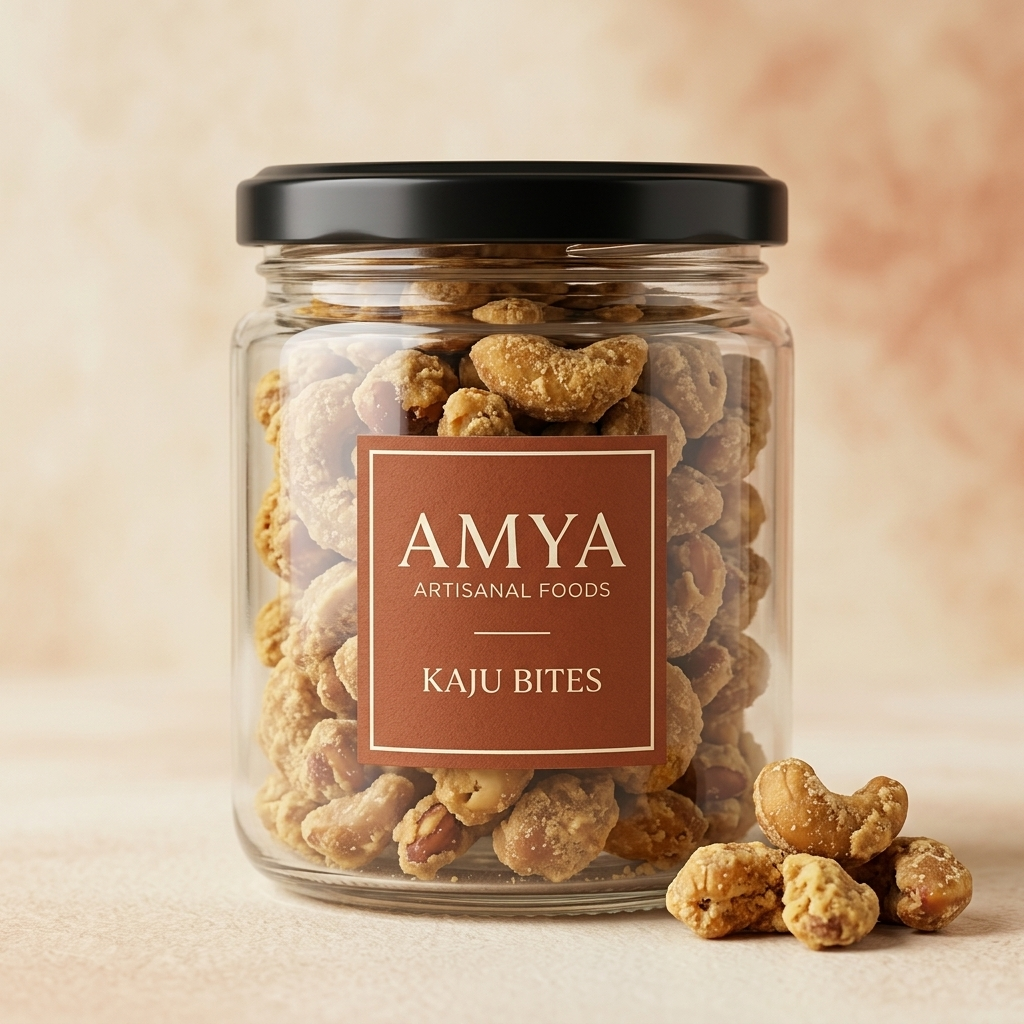
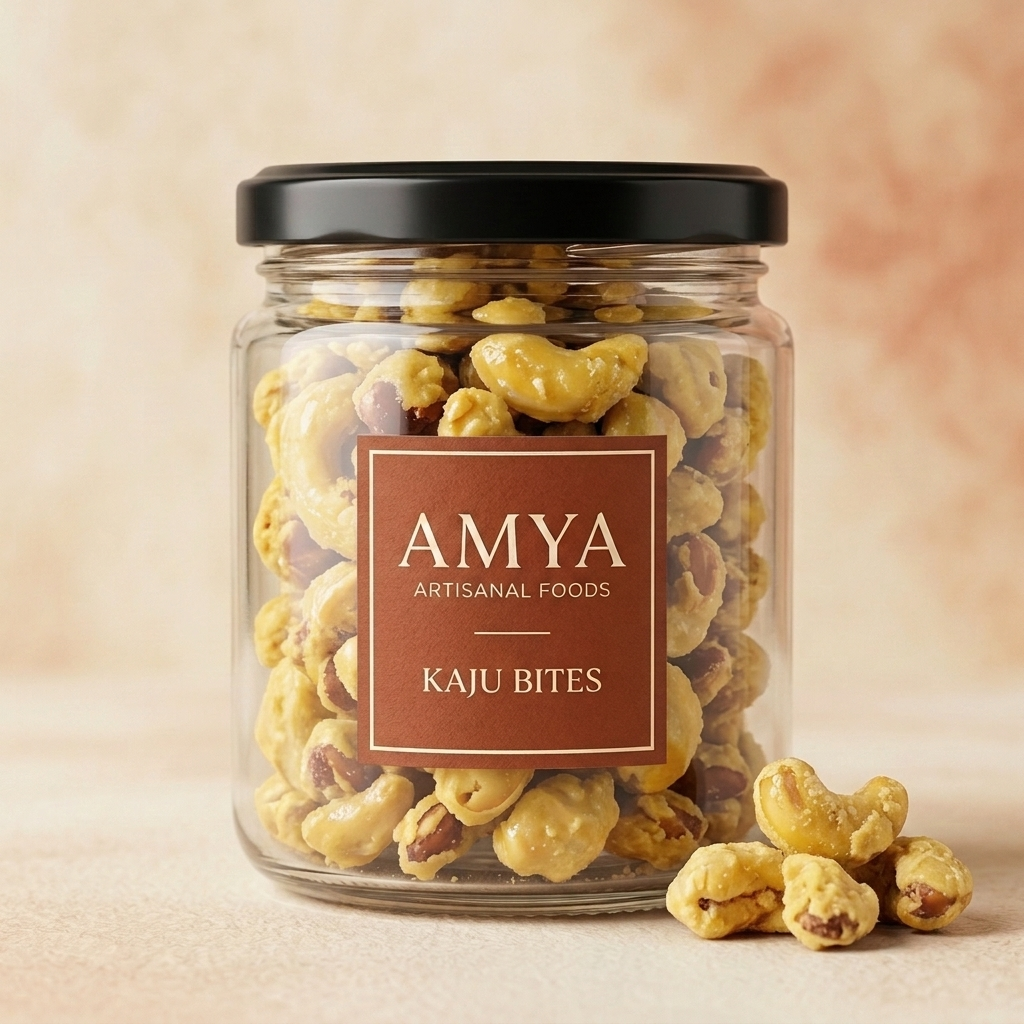
## Kaju Bites Product Image Corrected ✅ - Compared your original uploaded Kaju Bites photo against the live site image and edited the EXISTING product shot — correcting only the sweets to a **light golden-yellow, jaggery-coated** look (glossy coating, roasted cashew pieces showing through, natural h
- Next Action Items:
  - **Spice Pricing**: Add real 250g/500g/1kg prices for Chilli, Turmeric, Cumin & Coriander once you share the amounts
  - **Label Resize**: Shrink the label 10-15% on your real Chilli, Turmeric & Podi photos (paused earlier — confirm you want the real photos edited)
  - **Gift Hampers**: Turn the twin gold gift-box visual into a sellable curated hamper customers can order on WhatsApp
  - **Legal Pages**: Add FSSAI, GST, Terms, Privacy & Shipping pages to complete compliance

Emergent-Commit-Key: b1df4139a4d2f08a743deff9f0a751374b80e03aeecd5eb92e7e8046a2a33ac2

diff --git a/backend/server.py b/backend/server.py
@@ -635,7 +635,7 @@ INITIAL_PRODUCTS = [
         "delivery_info": "Dispatched after the order is confirmed. Delivery timeline shared on confirmation.",
         "returns_info": "Contact AMYA for any issue with your order.",
         "food_label_info": "Details coming soon. Enquire for details.",
-        "images": ["/products/kaju-bites.jpg?v=1"],
+        "images": ["/products/kaju-bites.jpg?v=2"],
         "pack_sizes": [],
         "availability": "available", "live_press": False, "featured": False, "sort_order": 1,
     },
